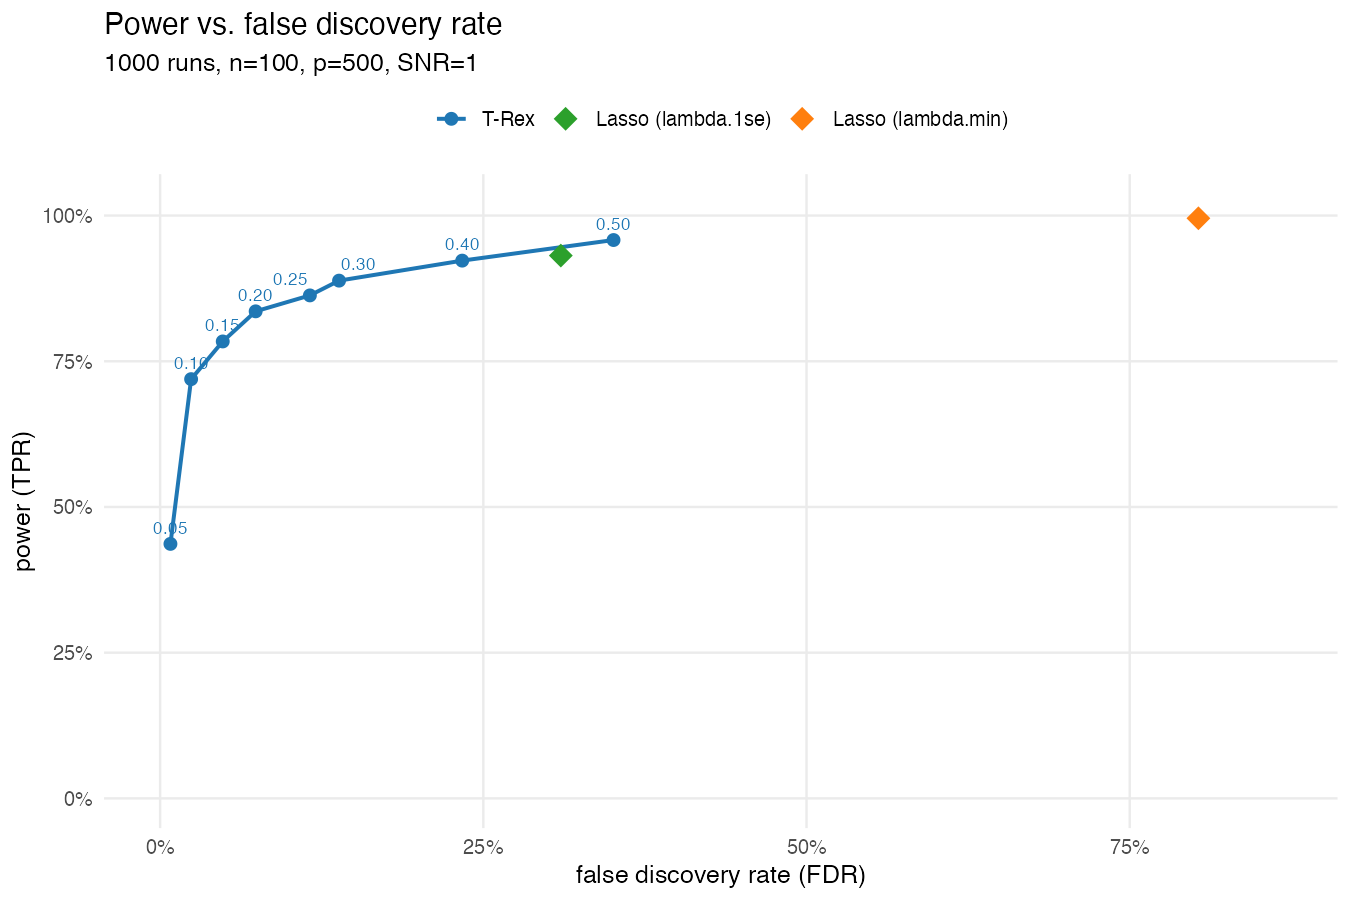
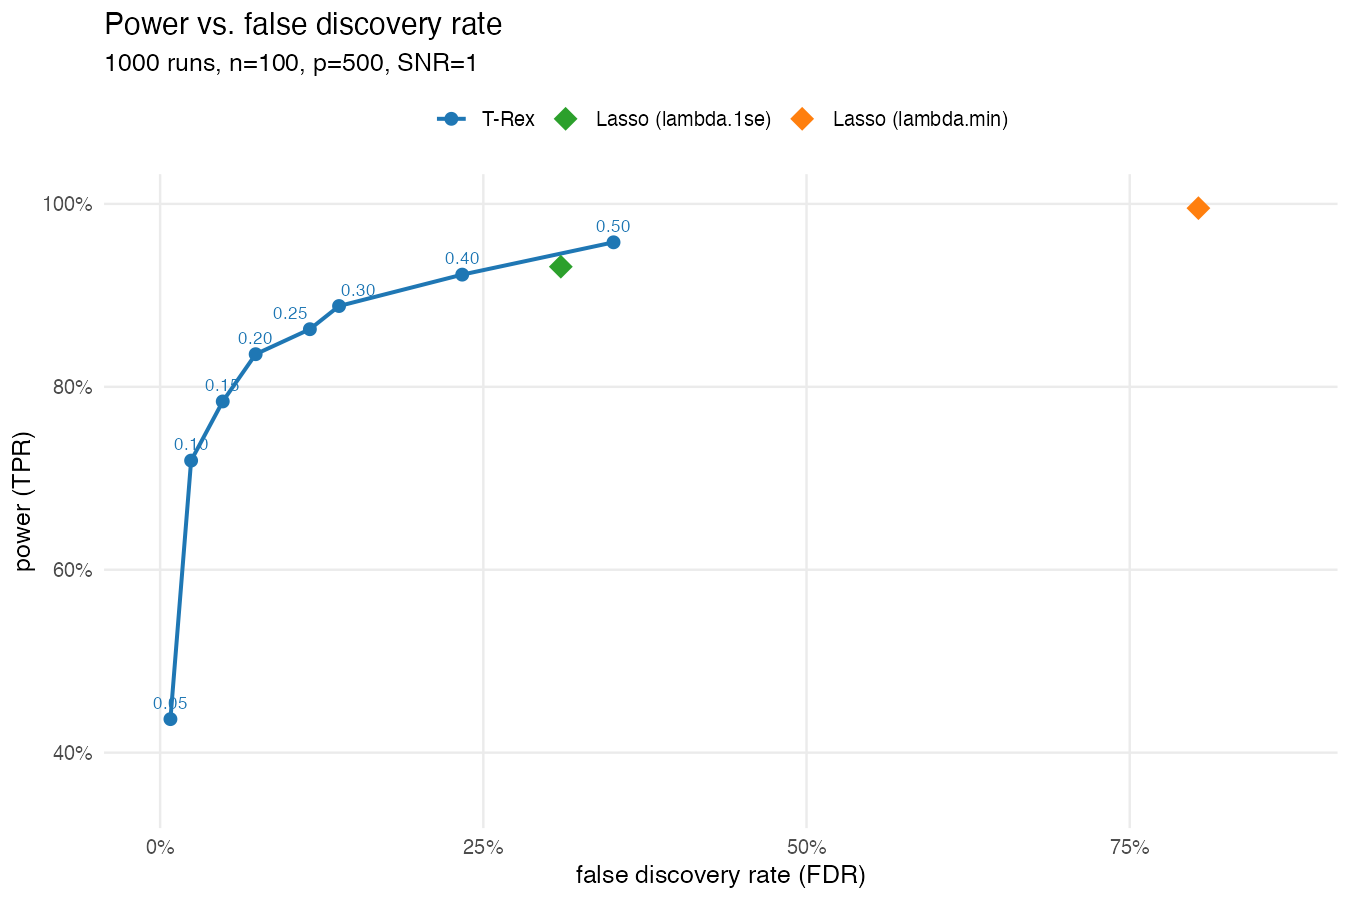
Crop tradeoff figure y-axis to 35-100% and cap its on-page width

diff --git a/index.html b/index.html
@@ -73,6 +73,7 @@
       background:#fff; border-radius:14px; border:1px solid rgba(255,255,255,.1);
       box-shadow:0 6px 22px rgba(0,0,0,.45);}
     p.lead + .demo{margin-top:.7rem;}   /* tighten gap between a figure and its intro line */
+    .demo--narrow img{max-width:36rem;}  /* keep this figure from spanning the full column */
 
     .libs{display:grid; grid-template-columns:repeat(3,1fr); gap:1rem; margin-top:2.6rem;}
     @media(max-width:620px){.libs{grid-template-columns:1fr;}}
@@ -160,7 +161,7 @@
       T-Rex provides the full trade-off of power vs false discovery rate:
     </p>
 
-    <figure class="demo">
+    <figure class="demo demo--narrow">
       <img src="images/tradeoff_power_vs_fdr.png"
            alt="Averaged over 100 simulated datasets (n=100, p=500): as its target false
                 discovery rate is varied, the T-Rex Selector traces a power-versus-false-discovery-rate